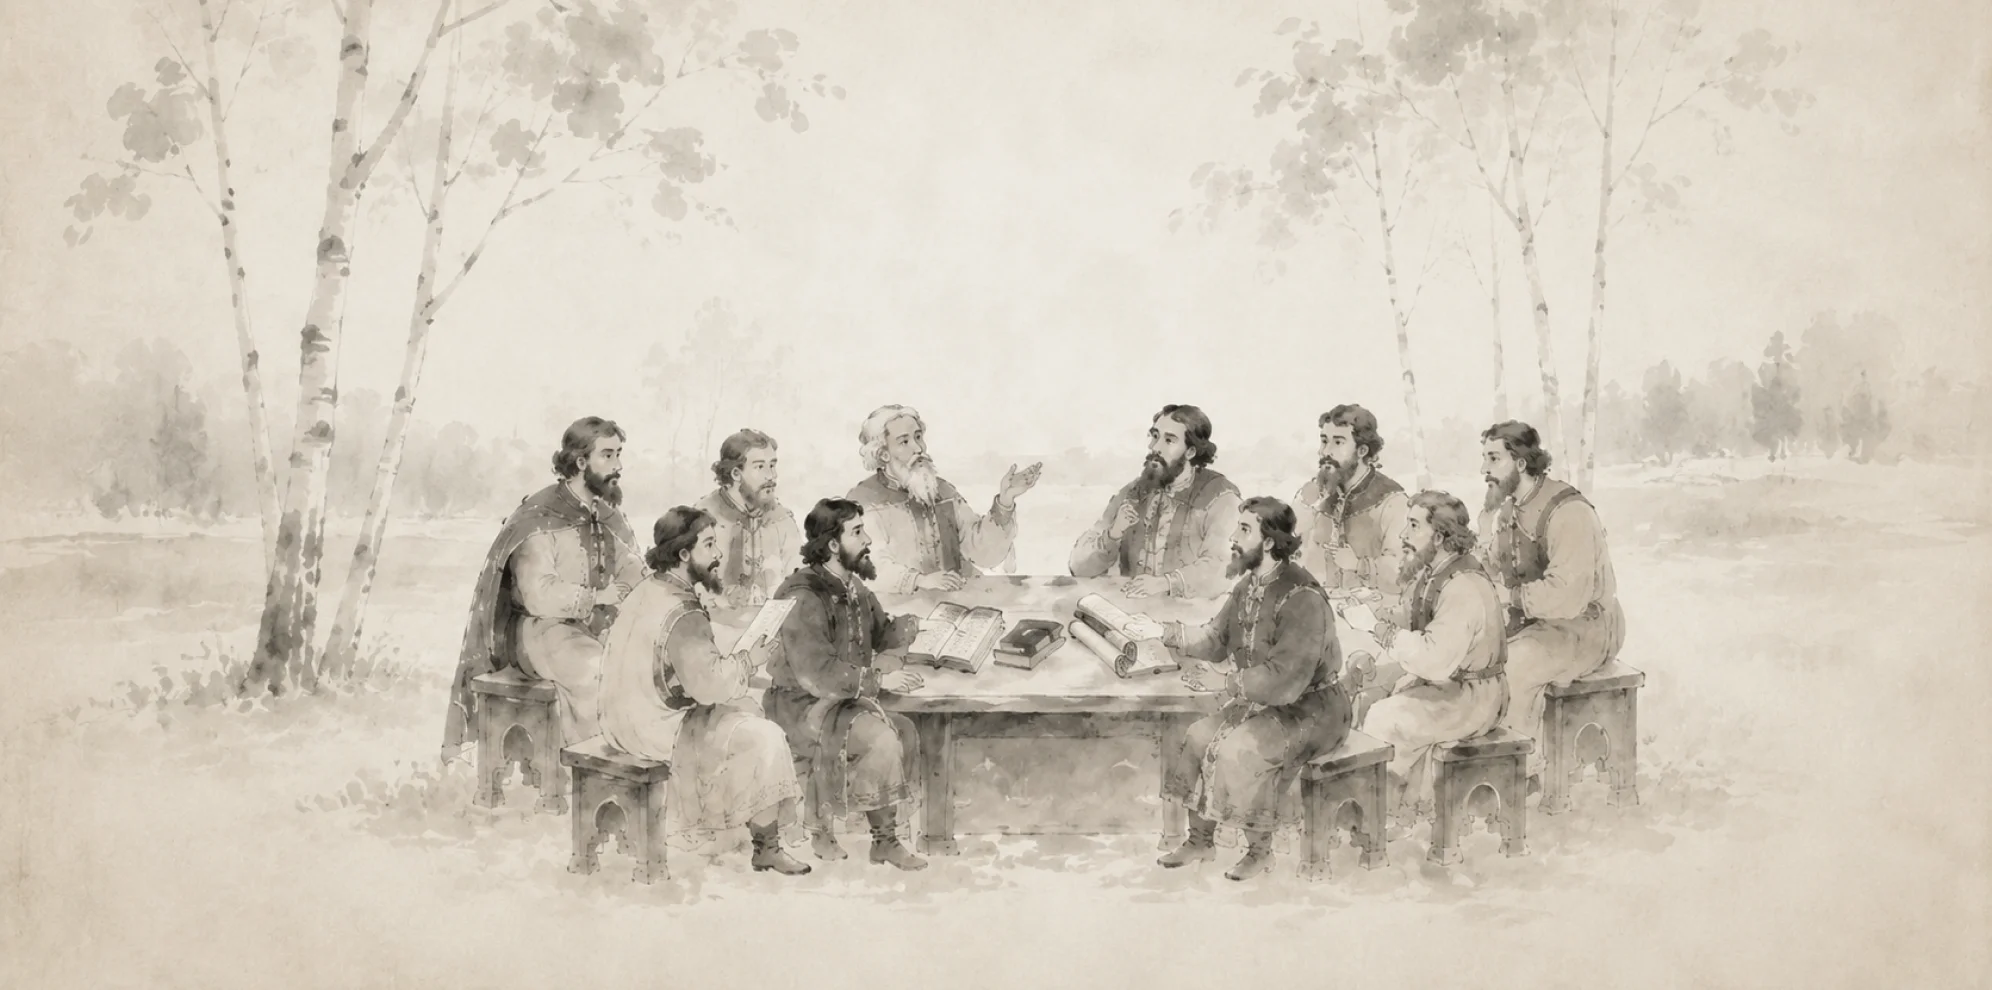
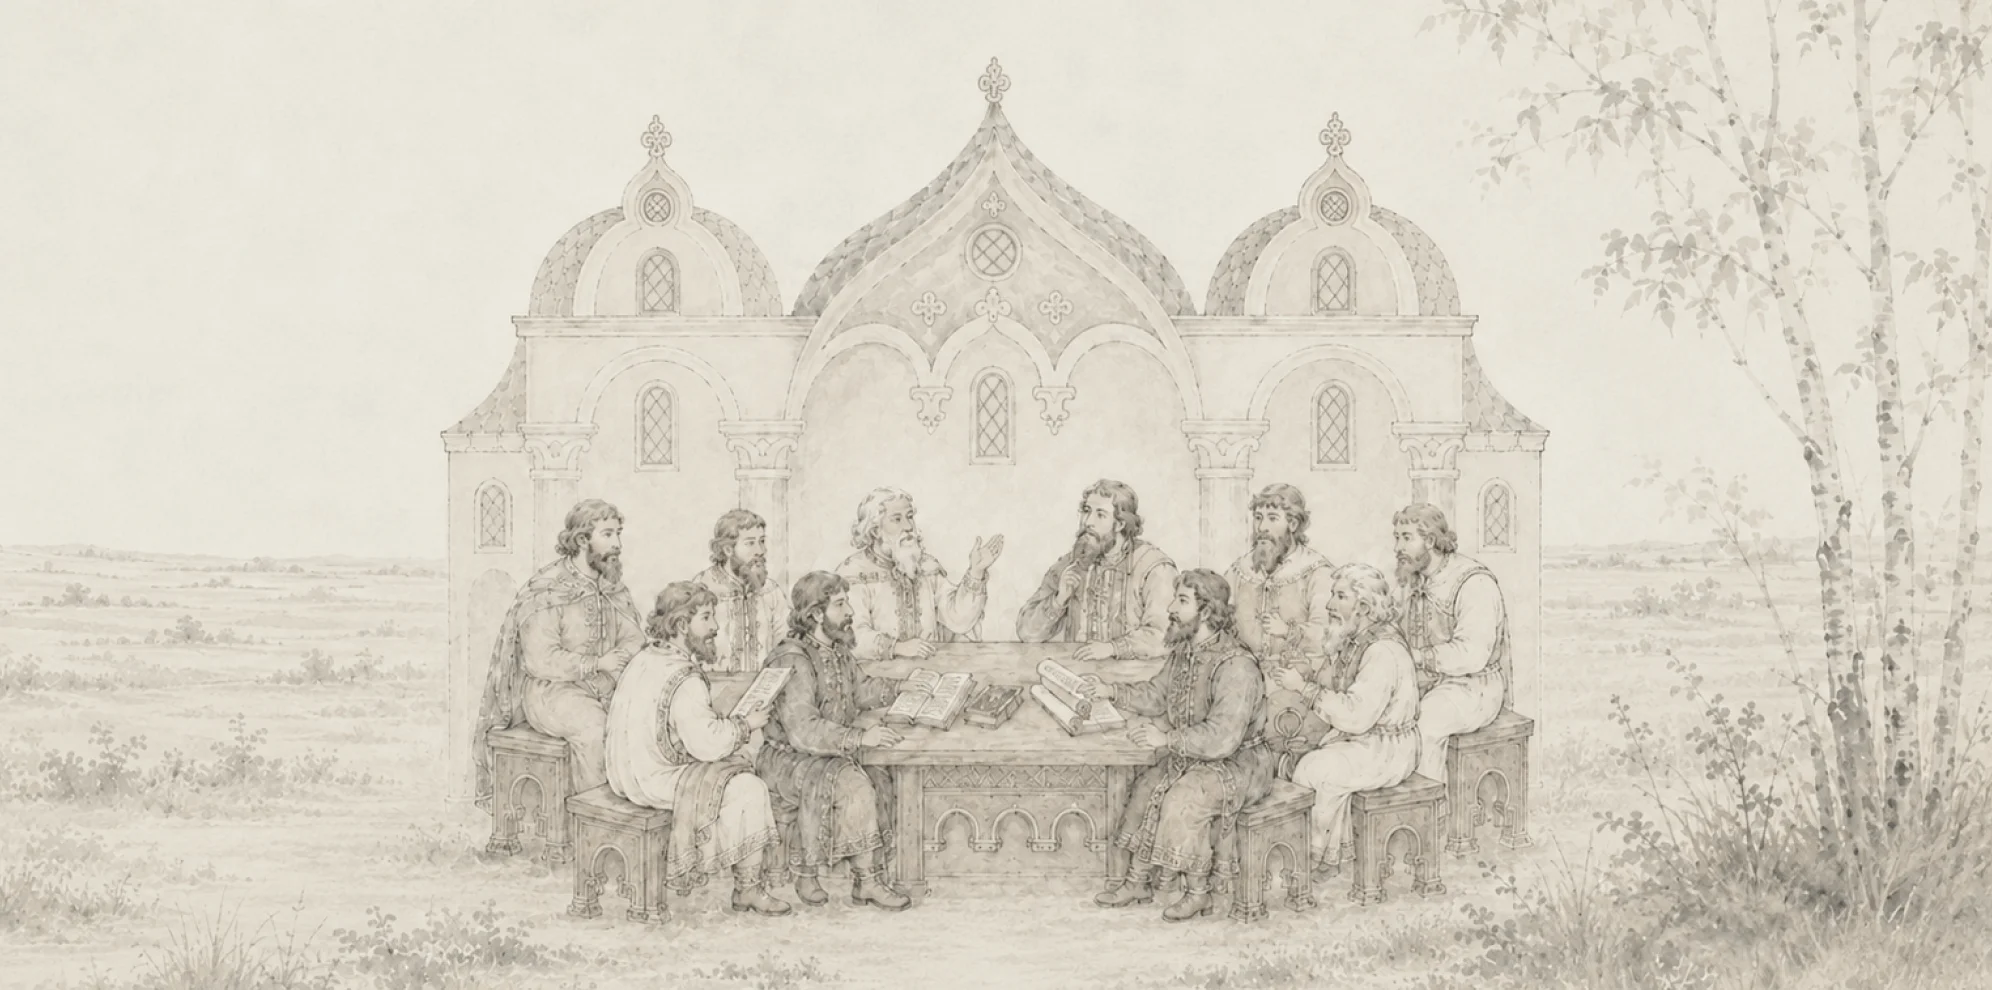
feat(home): новая иллюстрация карточки «Общество» в первом блоке
Тушевое изображение собрания заменено на вариант с белокаменным храмом
(те же 1992×990, 2:1). Файл обновлён и в CMS (media #43 — id сохранён,
связь глобала home не рвётся), и в src/assets как исходник для сидинга;
alt переписан под новый сюжет.

Заодно scripts/replace-media-file.ts — замена файла у существующего
media-документа без пересоздания связей.

diff --git a/apps/cms/scripts/replace-media-file.ts b/apps/cms/scripts/replace-media-file.ts
@@ -1,0 +1,33 @@
+// Разовая замена файла у существующего media-документа (id тот же — связи не рвутся).
+//
+// Запуск из apps/cms:
+//   MEDIA_ID=43 MEDIA_FILE=<абсолютный путь> [MEDIA_ALT="…"] \
+//   NODE_OPTIONS="--no-deprecation --import=tsx/esm" node scripts/replace-media-file.ts
+
+import 'dotenv/config'
+
+import fs from 'fs'
+
+import { getPayload } from 'payload'
+
+import config from '../src/payload.config'
+
+const id = Number(process.env.MEDIA_ID)
+const filePath = process.env.MEDIA_FILE as string
+const alt = process.env.MEDIA_ALT
+
+if (!id || !filePath) throw new Error('Нужны MEDIA_ID и MEDIA_FILE.')
+if (!fs.existsSync(filePath)) throw new Error(`Нет файла: ${filePath}`)
+
+const payload = await getPayload({ config })
+
+const updated = await payload.update({
+  collection: 'media',
+  id,
+  data: alt ? { alt } : {},
+  filePath,
+})
+
+console.log(`media #${id}: ${updated.filename} ${updated.width}×${updated.height}`)
+console.log('sizes:', Object.values(updated.sizes || {}).map((s: any) => s?.filename).filter(Boolean).join(', '))
+process.exit(0)
